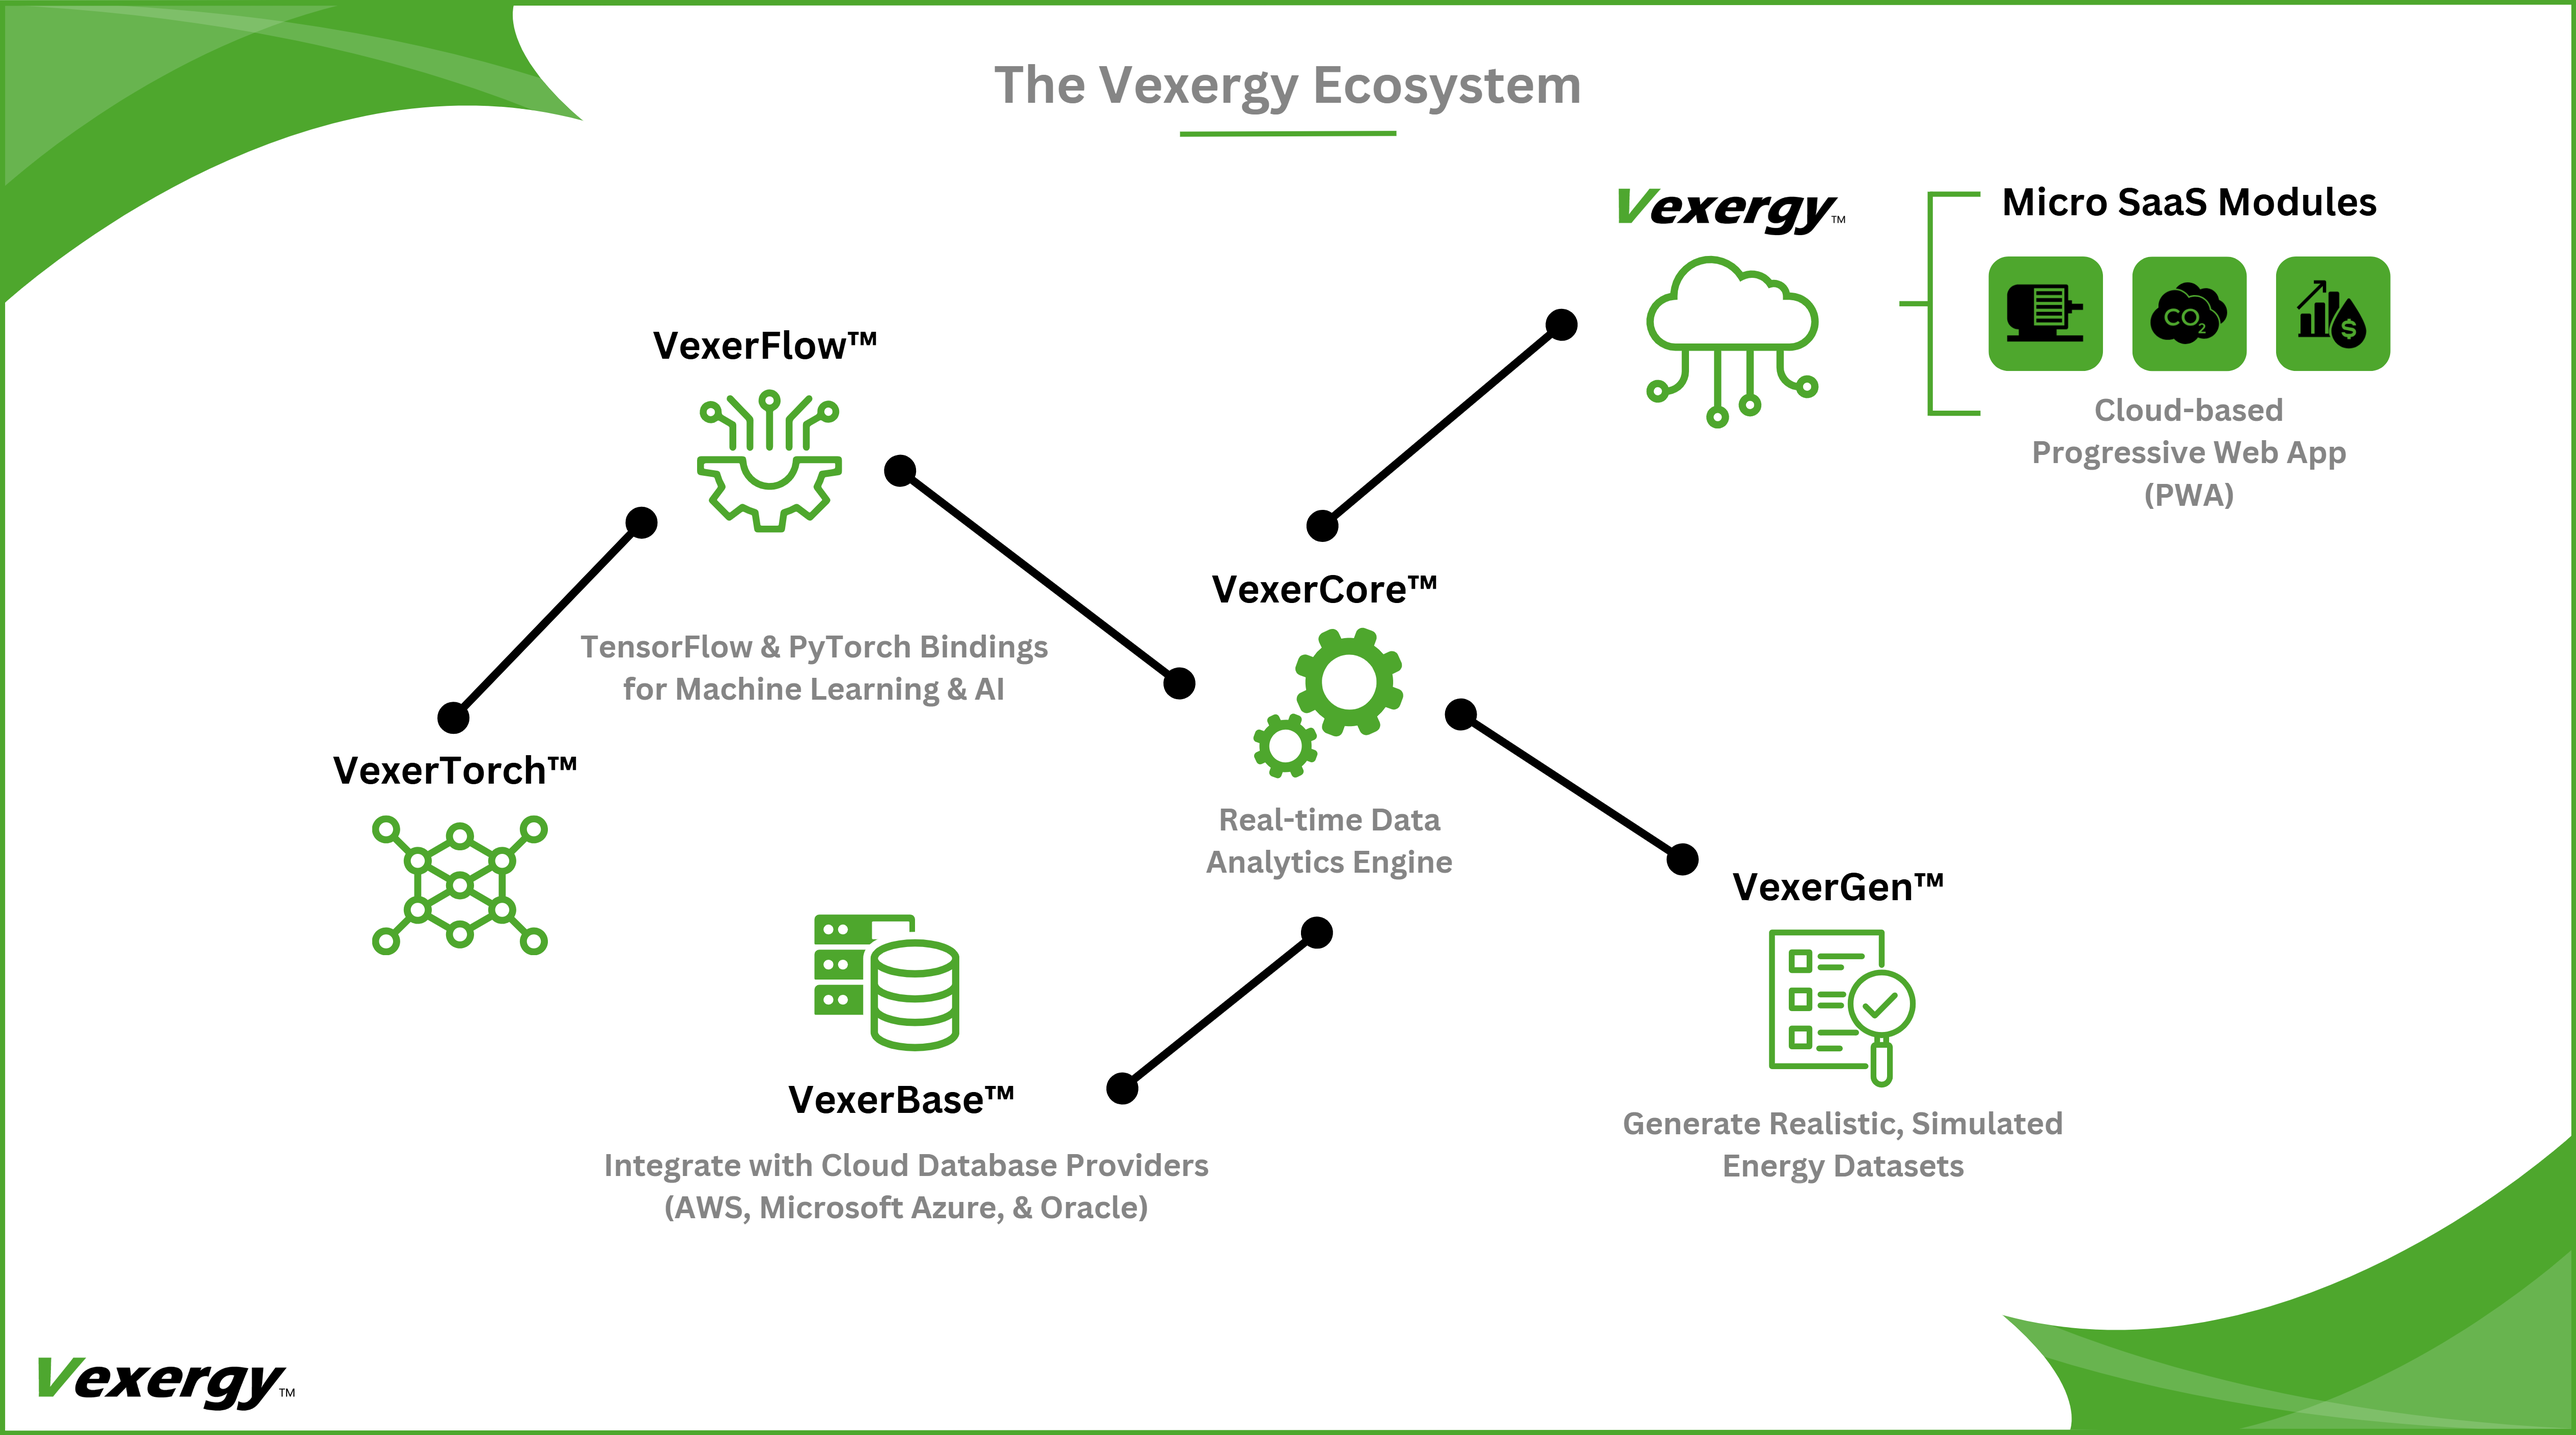
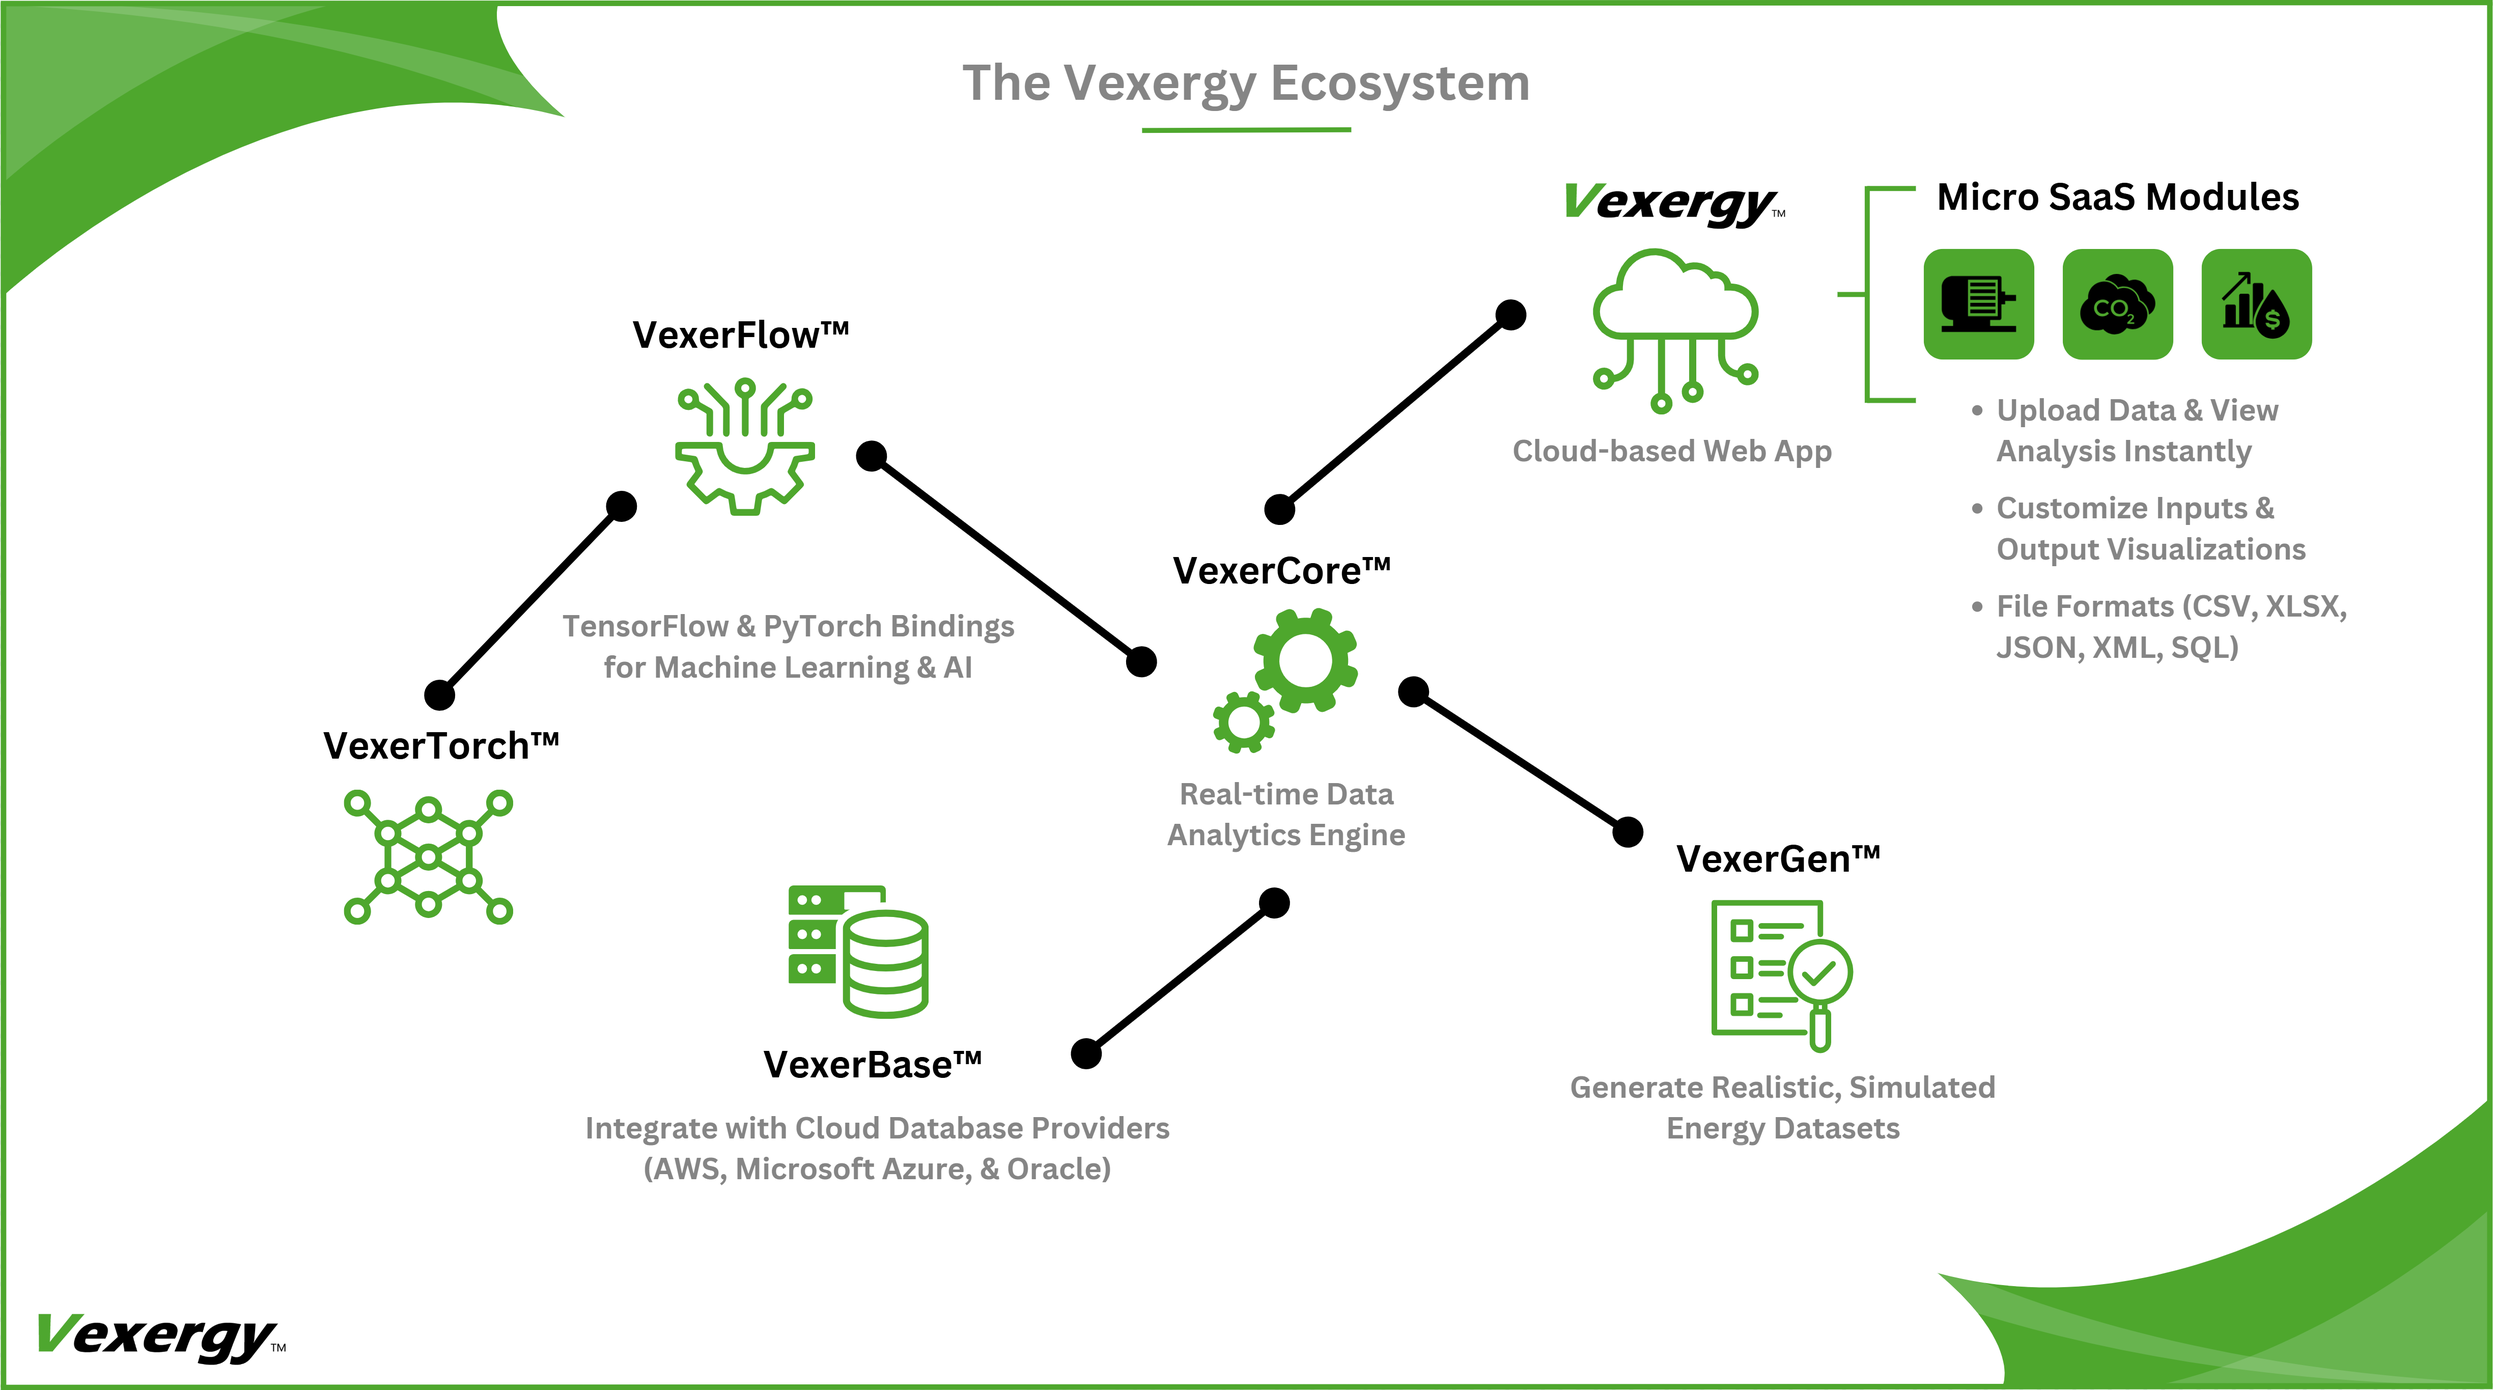
Added JavaScript for Hamburger Menu on Mobile and Tweaked CSS and HTML Text

diff --git a/index.html b/index.html
@@ -77,7 +77,7 @@
               <img src="images/vexergy-ecosystem.png" alt="Ecosystem">
             </div>
             <br>
-            <p>Explore a growing selection of Software as a Service (SaaS) products through our cloud-based progressive web app (PWA) which offers offline functionality and cross-platform compatibility. 
+            <p>Explore a growing selection of Software as a Service (SaaS) products directly from our web app dashboard. Upload your data and gain valuable insights with the click of a button.
               Flagship products include our <strong>VFD Savings Module, Carbon Sequestration Performance Module, and Fuel Consumption Module.</strong></p>
           </div>
         </div>
@@ -97,7 +97,7 @@
             </h2>
             <div id="collapseOne" class="accordion-collapse collapse show" data-bs-parent="#accordionExample">
               <div class="accordion-body">
-                Review critical data regarding VFD operating speed/frequency, power consumption, and equipment loads in a building. Predict accurate energy savings estimates based on frequency curtailment and the affinity law coefficient.  
+                Review critical data regarding VFD operating speed/frequency, power consumption, and equipment loads in a building. Accurately predict future energy savings based on frequency curtailment trends.
               </div>
             </div>
           </div>
@@ -109,7 +109,7 @@
             </h2>
             <div id="collapseTwo" class="accordion-collapse collapse" data-bs-parent="#accordionExample">
               <div class="accordion-body">
-                Calculate efficiency and effectiveness of carbon capture devices. Analyze the reduction of greenhouse gas (GHG) emissions and carbon footprint in energy-intensive buildings. Ensure CO2 emission compliance with local laws and avoid penalties.
+                Calculate efficiency and effectiveness of carbon capture devices. Analyze the reduction of greenhouse gas (GHG) emissions and carbon footprint in energy-intensive buildings. Ensure compliance with local CO2 emission laws and avoid penalties.
               </div>
             </div>
           </div>
@@ -136,7 +136,6 @@
             <div class="hline"></div>
             <div class="services-container">
               <img src="images/vexergy-services.png" alt="Services">
-              <p><em>* Note that custom applications or integrations tailored to your use case may eventually be added to Vexergy™ Marketplace following sufficient testing</em></p>
             </div>
           </div>
         </div>
@@ -149,7 +148,7 @@
           <div class="col-12 section-intro">
             <h1>Our Clients</h1>
             <div class="hline"></div>
-            <p>Our solutions serve countless energy-related applications for enterprises and institutions including <strong>Utility Providers, Engineering Firms, Technology Companies, Contractors, and more.</strong></p>
+            <p>Our solutions are designed to serve energy-related enterprises and institutions including <strong>Utilities, Engineering Firms, Solution Providers, Contractors, and more.</strong></p>
           </div>
         </div>
       </div>
@@ -159,10 +158,12 @@
       <div class="container">
         <div class="row">
           <div class="col-12 section-intro">
-            <h1>Integrations & Technologies</h1>
+            <h1>Integrations & Technologies We Use</h1>
             <div class="hline"></div>
             <div class="integrations-container">
               <img src="images/vexergy-integrations.png" alt="Integrations">
+              <p><em>All trademarks, logos, and brand names are the property of their respective owners. All company, product, and service names used in this website are for identification purposes only. 
+                Use of these names, trademarks, and brands does not imply endorsement.</em></p>
               <p>TensorFlow, the TensorFlow logo and any related marks are trademarks of Google Inc.</p>
               <p>PyTorch, the PyTorch logo and any related marks are trademarks of The Linux Foundation.</p>
             </div>
@@ -191,9 +192,9 @@
             <div class="card-body">
               <h1 class="card-title pricing-card-title">$49.99 <small class="text-muted">/ mo</small></h1>
               <ul class="list-unstyled mt-3 mb-4">
-                <li>Up to 3 Vexergy™ Marketplace Modules</li>
+                <li>Access up to 3 Vexergy™ Modules</li>
                 <li>Limited File Upload Size (100MB)</li>
-                <li>Less Available Integrations</li>
+                <li>Support for Select Integrations</li>
                 <li>Free Access to Docs/Support</li>
               </ul>
               <button type="button" class="btn btn-brand" data-bs-toggle="modal" data-bs-target="#contactModal">
@@ -208,10 +209,10 @@
             <div class="card-body">
               <h1 class="card-title pricing-card-title">$99.99 <small class="text-muted">/ mo</small></h1>
               <ul class="list-unstyled mt-3 mb-4">
-                <li>Full Access to Vexergy™ Marketplace</li>
+                <li>Full Access to All Vexergy™ Modules</li>
                 <li>Upload Files >100MB</li>
-                <li>Custom Software Consultation</li>
                 <li>Vexergy™ SDK & Dev Tools</li>
+                <li>Custom Software Consultation</li>
               </ul>
               <button type="button" class="btn btn-brand" data-bs-toggle="modal" data-bs-target="#contactModal">
                 Contact Us
@@ -232,7 +233,7 @@
               <strong>Our mission is simple: become the world's leading energy data analytics platform.</strong>
               Our software ecosystem offers a cost-effective, scalable, and streamlined solution for your specialized data analysis needs without having to outsource to other companies or spend time and money to develop internal tools. 
               Additionally, you can take advantage of extensive integrations, flexible subsciption-based pricing model, and secured real-time data processing to maximize your productivity. 
-              Partner with us to make an impact using data insights to build a sustainable, more efficient energy future.</p>
+              Partner with us to make an impact using data insights to build a more sustainable, energy-efficient future.</p>
           </div>
         </div>
       </div>
@@ -342,6 +343,7 @@
     </footer>
 
     <script src="js/bootstrap.bundle.min.js"></script>
+    <script src="js/script.js"></script>
 
   </body>
 </html>

diff --git a/css/style.css b/css/style.css
@@ -62,8 +62,11 @@ section {
 }
 
 #home p {
+    padding-top: 15px;
     font-weight: 400;
     font-size: 25px;
+    color: #616571;
+    line-height: 1.5;
 }
 
 .btn {
@@ -142,6 +145,18 @@ section {
     --bs-accordion-border-color: #ffffff;
     width: 50%;
     margin: auto;
+}
+
+@media (max-width: 768px) { 
+    .accordion { 
+        width: 80%;
+    } 
+} 
+
+@media (max-width: 576px) { 
+    .accordion { 
+        width: 95%;
+    } 
 }
 
 .accordion-button:not(.collapsed)::after {
@@ -270,7 +285,6 @@ section {
 
 .footer-top {
     padding-top: 80px;
-    padding-bottom: 40px;
     font-weight: 400;
     font-size: 18px;
 }
@@ -284,12 +298,16 @@ section {
     width: 300px;
 }
 
+.footer-top .container .row {
+    padding-bottom: 30px;
+}
+
 .footer-bottom {
     padding-top: 30px;
-    padding-bottom: 30px;
     border-top: 1px solid rgba(0, 0, 0, 0.1);
     font-weight: 400;
     font-size: 15px;
+    background-color: #F8F9FA;
 }
 
 footer .footer-links a,

diff --git a/js/script.js b/js/script.js
@@ -1,0 +1,8 @@
+// Close the navbar when a nav-item is clicked 
+document.querySelectorAll('.navbar-nav .nav-link').forEach(item => { 
+    item.addEventListener('click', () => {
+        if (document.querySelector('.navbar-collapse').classList.contains('show')) { 
+            document.querySelector('.navbar-toggler').click(); 
+        } 
+    }); 
+});
